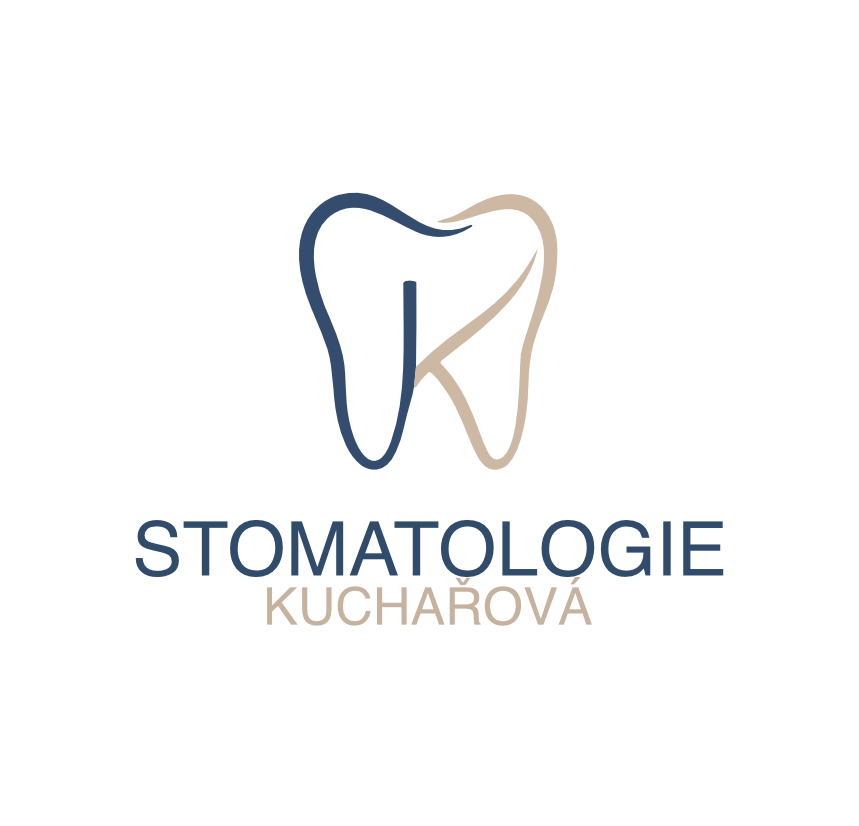
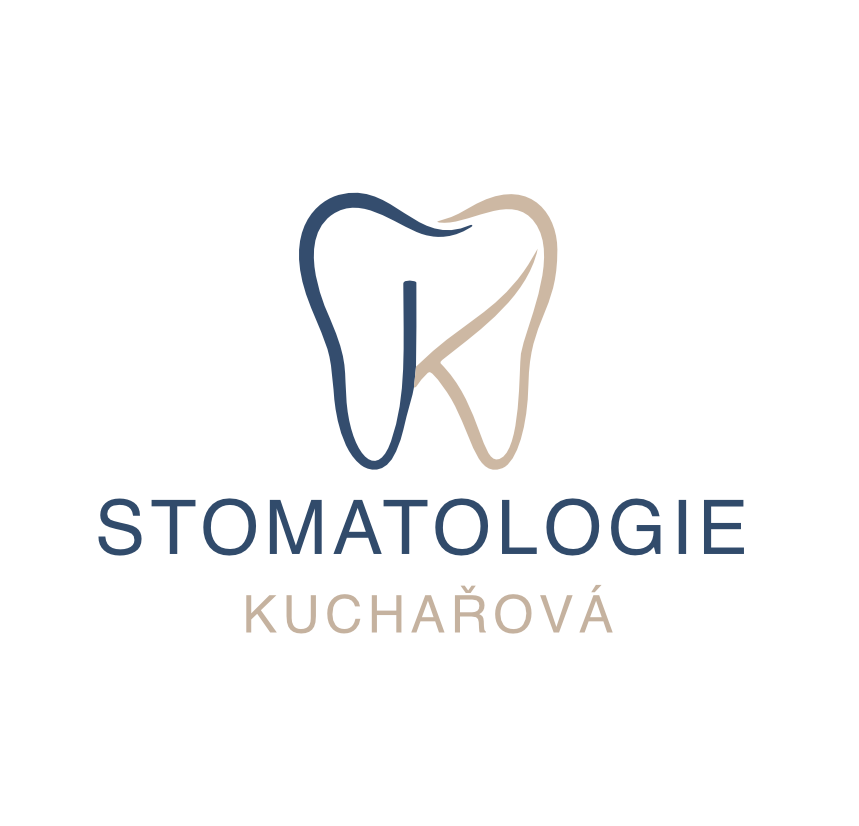
Přidání otevírací doby do hero sekce a opravy popup mapy
- Hero: nadpis Otevírací doba + frosted-glass pill pod logem
- Leaflet popup: eliminace mezery mezi obdélníkem a trojúhelníkem
- Hero padding-bottom zvětšen pro lepší vertikální pozici obsahu

Changed region(s): [[0.1211, 0.6053, 0.8778, 0.7869]]

diff --git a/style.css b/style.css
@@ -39,7 +39,7 @@ body {
   flex-direction: column;
   align-items: center;
   justify-content: center;
-  padding: 32px 24px 96px;
+  padding: 32px 24px 160px;
   text-align: center;
   background:
     radial-gradient(ellipse at 50% 46%, var(--sand) 0%, transparent 62%),
@@ -81,6 +81,56 @@ body {
 @keyframes rise {
   from { opacity: 0; transform: translateY(18px) scale(.985); }
   to   { opacity: 1; transform: none; }
+}
+
+.hero__hours-title {
+  position: relative;
+  z-index: 1;
+  margin-top: -60px;
+  margin-bottom: 6px;
+  font-size: clamp(26px, 4vw, 38px);
+  font-weight: 600;
+  letter-spacing: -0.01em;
+  color: var(--navy-deep);
+  animation: rise 1.1s cubic-bezier(.16,.84,.36,1) 0.15s both;
+}
+
+.hero__hours {
+  position: relative;
+  z-index: 1;
+  margin-top: 0;
+  display: inline-flex;
+  align-items: center;
+  gap: 10px;
+  background: rgba(255, 255, 255, 0.70);
+  backdrop-filter: blur(14px);
+  -webkit-backdrop-filter: blur(14px);
+  border: 1px solid rgba(255, 255, 255, 0.55);
+  border-radius: 999px;
+  padding: 11px 22px;
+  box-shadow: 0 4px 24px rgba(33, 56, 88, 0.10);
+  font-size: 15px;
+  color: var(--navy-deep);
+  font-weight: 500;
+  letter-spacing: 0.01em;
+  animation: rise 1.1s cubic-bezier(.16,.84,.36,1) 0.2s both;
+}
+.hero__hours svg {
+  width: 16px;
+  height: 16px;
+  color: var(--sand-deep);
+  flex-shrink: 0;
+}
+.hero__hours-sep {
+  color: var(--sand);
+  font-weight: 300;
+  font-size: 19px;
+  line-height: 1;
+  opacity: 0.7;
+}
+.hero__hours-time {
+  font-weight: 700;
+  color: var(--navy);
 }
 
 .scroll-cue {
@@ -413,7 +463,7 @@ a.contact__value:hover { color: var(--sand-deep); }
 }
 /* Leaflet popup brand styling */
 .leaflet-popup-content-wrapper {
-  border-radius: 14px !important;
+  border-radius: 14px 14px 14px 14px !important;
   box-shadow: 0 12px 32px rgba(33,56,88,0.22) !important;
   font-family: 'DM Sans', system-ui, sans-serif !important;
   padding: 0 !important;
@@ -422,9 +472,10 @@ a.contact__value:hover { color: var(--sand-deep); }
   margin: 14px 36px 14px 18px !important;
   line-height: 1.5 !important;
 }
+.leaflet-popup-tip-container { margin-top: -8px !important; transform: translateY(-6px) !important; }
 .leaflet-popup-tip { background: #fff !important; }
 .leaflet-popup-close-button {
-  top: 8px !important;
+  top: 12px !important;
   right: 8px !important;
 }
 .leaflet-control-zoom a {

diff --git a/index.html b/index.html
@@ -24,6 +24,18 @@
         alt="Stomatologie Kuchařová"
       />
     </div>
+
+    <h2 class="hero__hours-title">Otevírací doba</h2>
+
+    <div class="hero__hours" aria-label="Otevírací doba">
+      <svg viewBox="0 0 24 24" fill="none" stroke="currentColor" stroke-width="1.6" stroke-linecap="round" stroke-linejoin="round" aria-hidden="true">
+        <circle cx="12" cy="12" r="9" /><path d="M12 7v5l3.5 2" />
+      </svg>
+      <span class="hero__hours-days">Středa – Pátek</span>
+      <span class="hero__hours-sep">·</span>
+      <span class="hero__hours-time">8:00 – 12:00</span>
+    </div>
+
     <a class="scroll-cue" href="#kontakt" aria-label="Přejít na kontakt">
       <span>Kontakt</span>
       <svg viewBox="0 0 24 24" fill="none" stroke="currentColor" stroke-width="1.6" stroke-linecap="round" stroke-linejoin="round">
@@ -149,13 +161,6 @@
         <!-- interactive map (Leaflet + OpenStreetMap) -->
         <div class="map-wrap">
           <div class="map" id="mapa"></div>
-          <p class="map-note">
-            <svg viewBox="0 0 24 24" fill="none" stroke="currentColor" stroke-width="1.6" stroke-linecap="round" stroke-linejoin="round" aria-hidden="true">
-              <rect x="3" y="3" width="18" height="18" rx="3"/>
-              <path d="M9 17V7h4a3 3 0 0 1 0 6H9"/>
-            </svg>
-            Parkovat lze na horním parkovišti
-          </p>
         </div>
 
       </div>